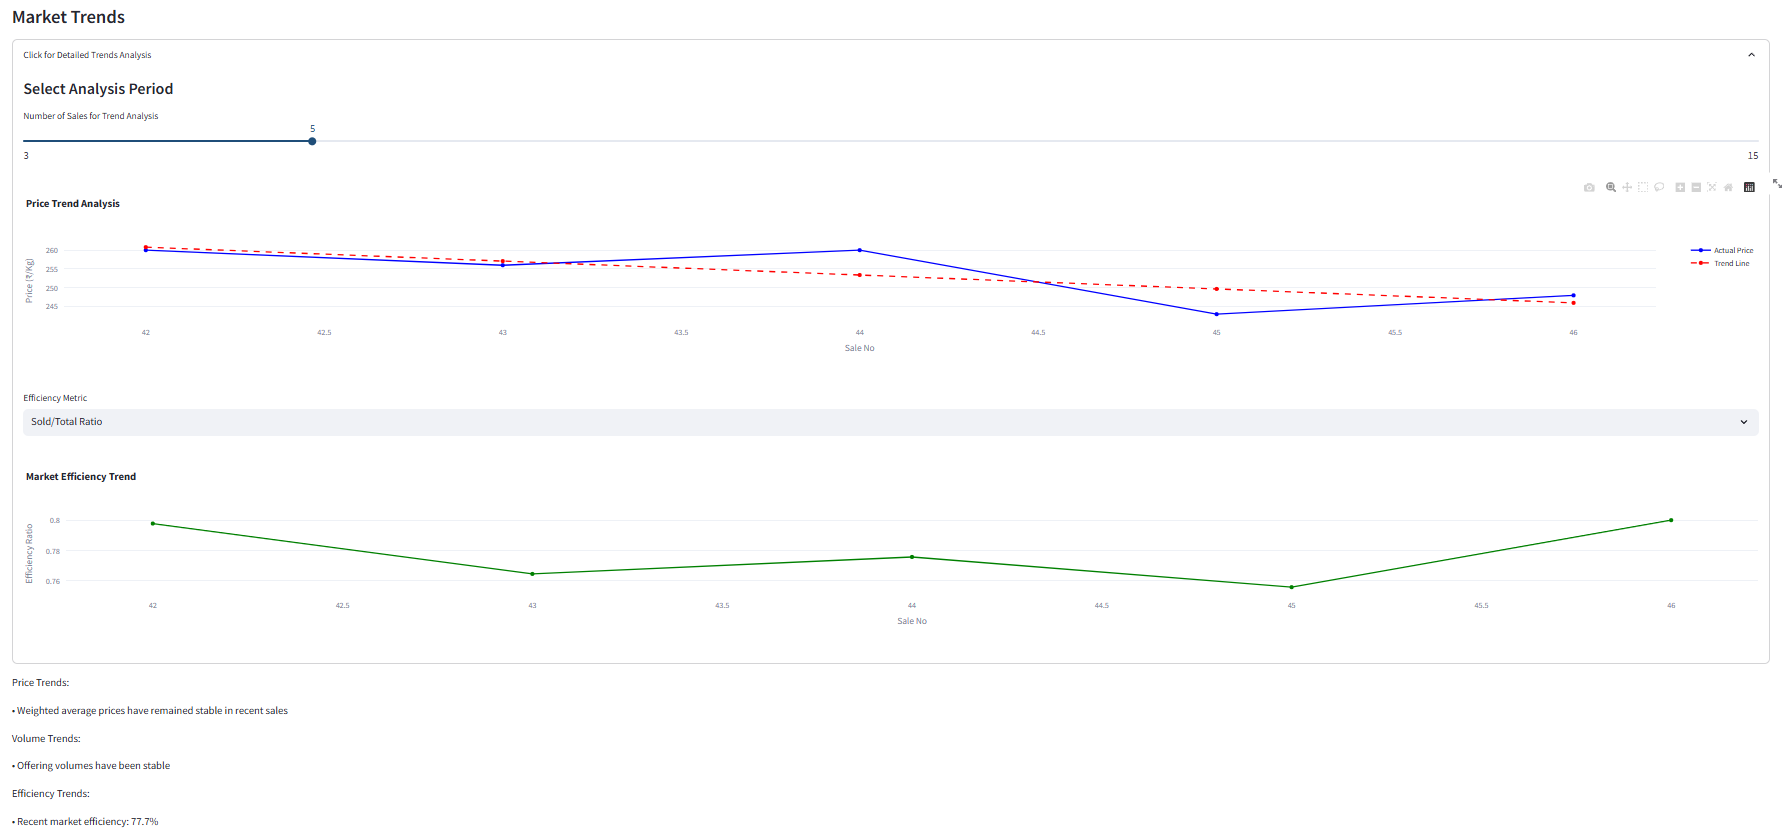
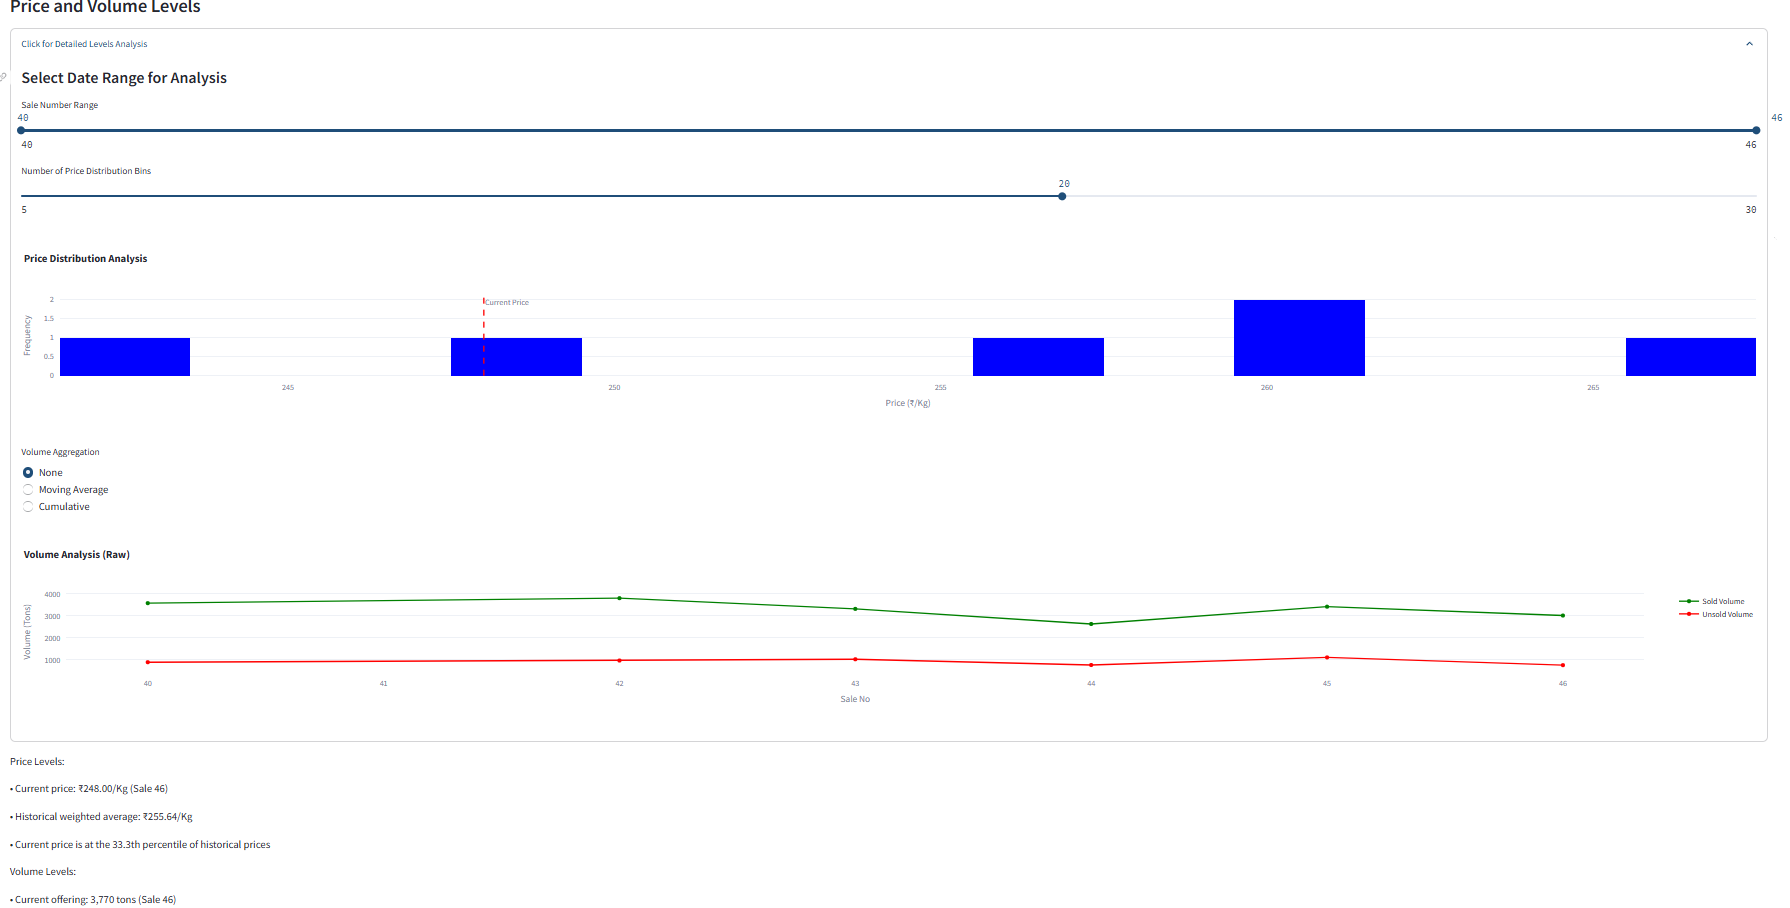
Agent query: Is the Price and Volume Levels section now visible with date range selector, price distribution analysis, and volume analysis charts? Also are the analysis options (Mean, Moving Average, Cumulative) showing up?

diff --git a/main.py b/main.py
@@ -233,6 +233,88 @@ try:
         st.markdown("---")  # Add a visual separator
         st.header("Statistical Analysis")
         
+        # Price and Volume Levels Analysis
+        st.subheader("Price and Volume Levels")
+        
+        # Date Range Selector
+        date_col1, date_col2 = st.columns(2)
+        with date_col1:
+            date_range = st.slider("Select Date Range for Analysis", 
+                                min_value=1,
+                                max_value=30,
+                                value=(1, 30),
+                                key="date_range_slider")
+        
+        with date_col2:
+            bins = st.slider("Number of Price Distribution Bins", 
+                          min_value=5,
+                          max_value=50,
+                          value=20,
+                          key="price_bins_slider")
+        
+        # Price Distribution Analysis
+        if len(selected_centres) == 1:
+            centre_df = df_selected[df_selected['Centre'] == selected_centres[0]].copy()
+            
+            # Create price distribution histogram
+            hist_fig = go.Figure()
+            hist_fig.add_trace(go.Histogram(
+                x=centre_df['Sales Price(Kg)'],
+                nbinsx=bins,
+                name='Price Distribution',
+                marker_color='#1F4E79'
+            ))
+            
+            hist_fig.update_layout(
+                title='Price Distribution Analysis',
+                xaxis_title='Price (₹/Kg)',
+                yaxis_title='Frequency',
+                template='plotly_white',
+                height=300
+            )
+            
+            st.plotly_chart(hist_fig, use_container_width=True)
+            
+            # Volume Analysis
+            volume_fig = go.Figure()
+            
+            # Raw volume data
+            volume_fig.add_trace(go.Scatter(
+                x=centre_df['Sale No'],
+                y=centre_df['Sold Qty (Ton)'] + centre_df['Unsold Qty (Ton)'],
+                name='Total Volume',
+                line=dict(color='#2E8B57', width=2)
+            ))
+            
+            # Moving Average
+            ma_window = 3  # 3-sale moving average
+            volume_ma = (centre_df['Sold Qty (Ton)'] + centre_df['Unsold Qty (Ton)']).rolling(window=ma_window).mean()
+            volume_fig.add_trace(go.Scatter(
+                x=centre_df['Sale No'],
+                y=volume_ma,
+                name=f'{ma_window}-Sale Moving Average',
+                line=dict(color='#FF9966', width=2, dash='dash')
+            ))
+            
+            volume_fig.update_layout(
+                title='Volume Analysis (Raw)',
+                xaxis_title='Sale No',
+                yaxis_title='Volume (Tons)',
+                template='plotly_white',
+                height=300,
+                showlegend=True
+            )
+            
+            st.plotly_chart(volume_fig, use_container_width=True)
+            
+            # Analysis Options
+            st.radio("Volume Aggregation",
+                    ["Mean", "Moving Average", "Cumulative"],
+                    key="volume_aggregation",
+                    horizontal=True)
+        else:
+            st.info("Please select a single market for price and volume analysis")
+
         stat_col1, stat_col2 = st.columns(2)
         with stat_col1:
             st.subheader("Market Position Analysis")
